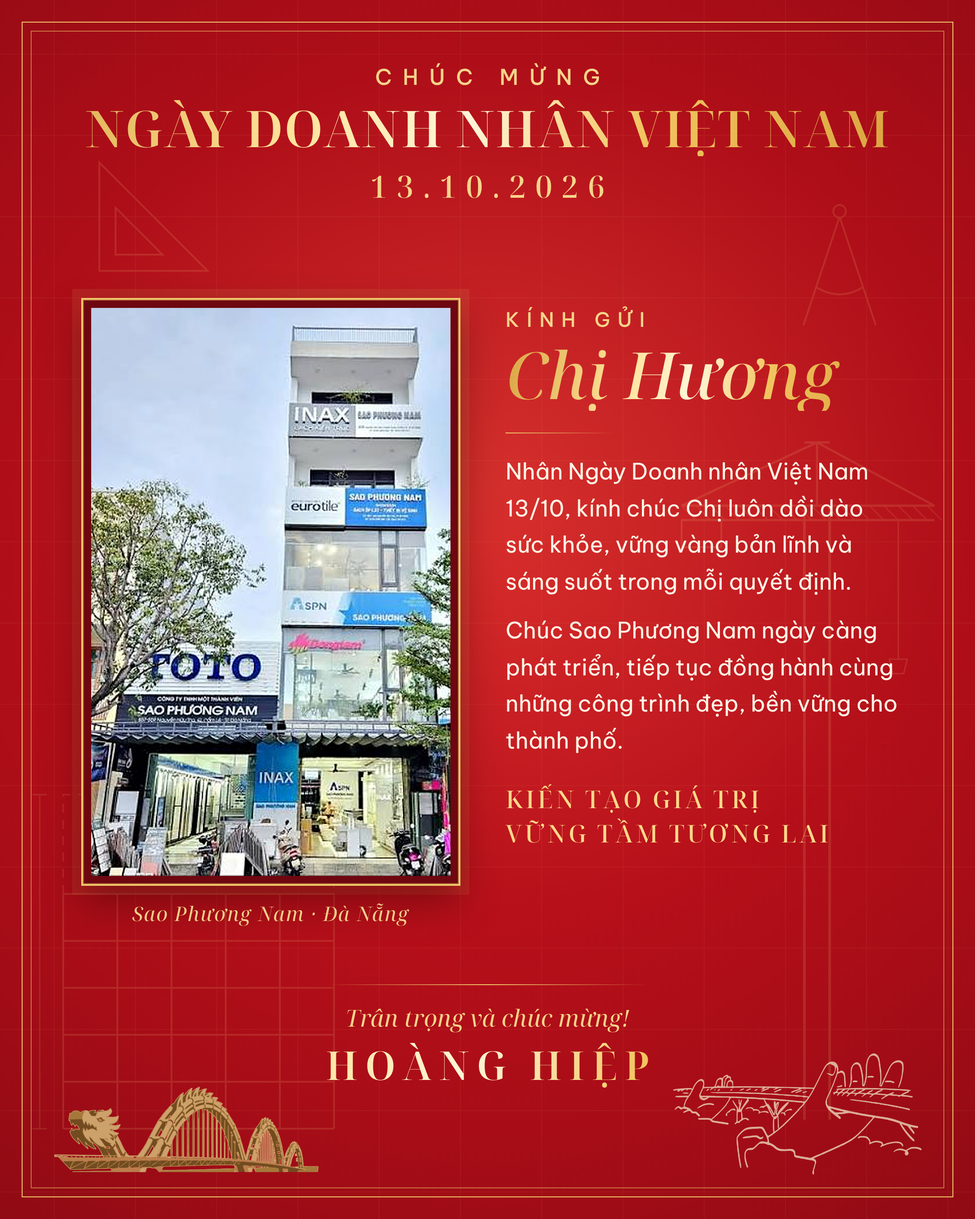
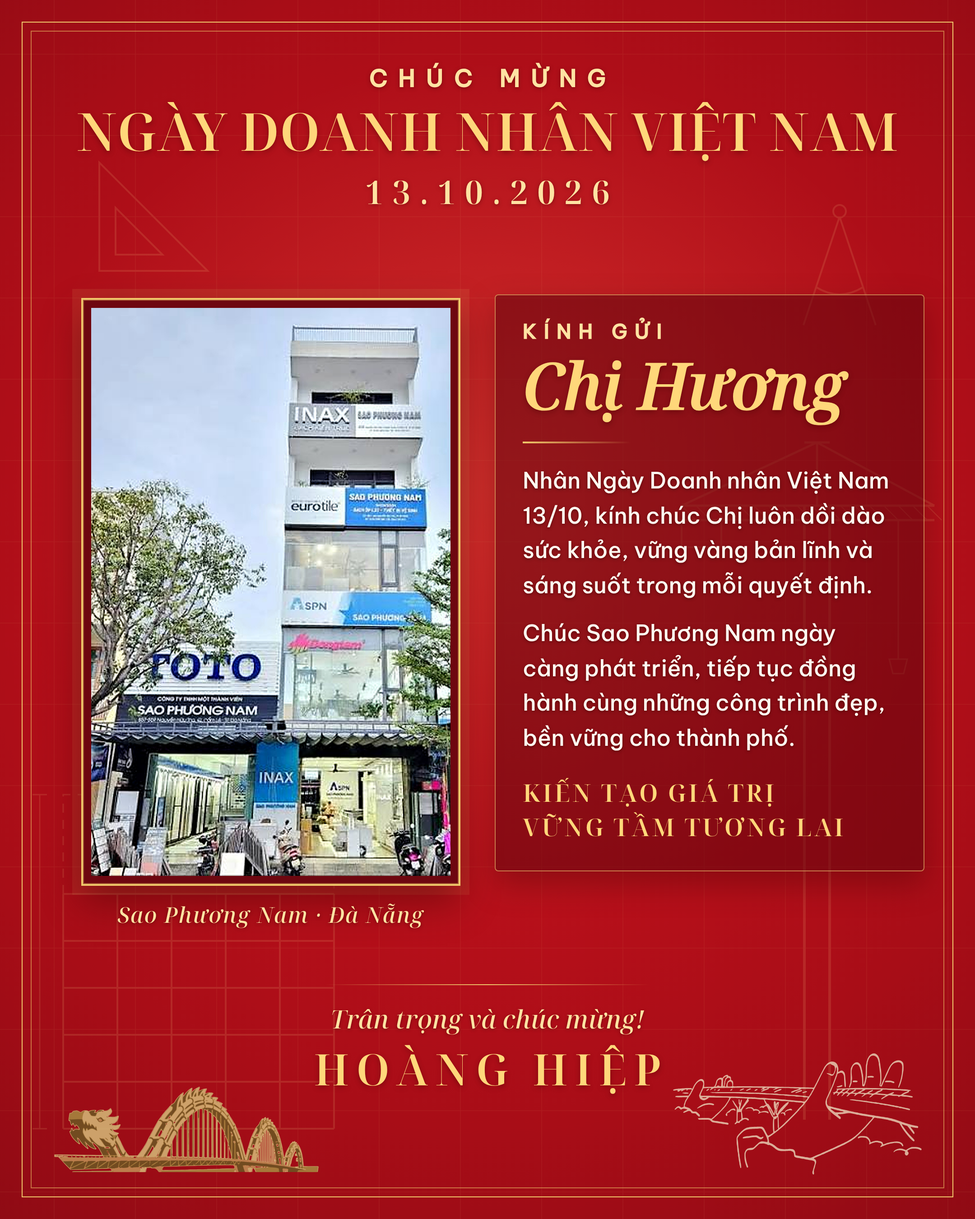
Thiệp chị Hương: chữ rõ hơn – vàng đặc, đậm hơn, khung nền cho lời chúc
Claude-Session: https://claude.ai/code/session_01Noi56VZ885EaUZ236ZNbAP

diff --git a/thiep/thiep-chi-huong.html b/thiep/thiep-chi-huong.html
@@ -27,6 +27,19 @@ body{width:1080px;height:1350px;overflow:hidden;background:#8e0c14}
 .sig .l{width:360px;height:1px;background:linear-gradient(90deg,rgba(240,200,106,0),#f0c86a,rgba(240,200,106,0));margin:0 auto 18px}
 .sig .t{font-family:'Noto Serif Display',serif;font-style:italic;font-size:26px;color:#f6d48a}
 .sig .n{font-family:'Noto Serif Display',serif;font-weight:600;font-size:44px;letter-spacing:8px;padding-left:8px;margin-top:4px}
+
+.gold{background:none!important;-webkit-background-clip:border-box!important;background-clip:border-box!important;color:#ffd77a!important;text-shadow:0 2px 6px rgba(70,0,0,.45)}
+.kick{font-size:26px!important;font-weight:600!important;color:#ffe3a3!important;text-shadow:0 1px 4px rgba(70,0,0,.5)}
+.title{font-size:58px!important;font-weight:600!important;letter-spacing:.5px!important}
+.date{font-size:36px!important;font-weight:600!important;color:#ffe3a3!important;text-shadow:0 1px 4px rgba(70,0,0,.5)}
+.R{left:548px!important;top:326px!important;width:476px!important;padding:26px 30px 30px!important;background:rgba(95,4,12,.55);border:1px solid rgba(255,215,122,.55);border-radius:4px;box-shadow:0 14px 34px rgba(60,0,0,.35)}
+.to{font-size:22px!important;font-weight:600!important;color:#ffe3a3!important}
+.name{font-size:70px!important;font-weight:600!important;font-style:italic}
+.wish{font-size:25px!important;font-weight:500!important;line-height:1.55!important;color:#fffaf0!important;text-shadow:0 1px 3px rgba(50,0,0,.55)}
+.motto{font-size:27px!important;font-weight:600!important;color:#ffd77a!important;letter-spacing:2.5px!important;margin-top:22px!important}
+.cap{font-size:24px!important;font-weight:500;color:#ffe3a3!important;text-shadow:0 1px 3px rgba(60,0,0,.5)}
+.sig .t{font-size:28px!important;font-weight:500;color:#ffe3a3!important;text-shadow:0 1px 3px rgba(60,0,0,.5)}
+.sig .n{font-size:48px!important;font-weight:700!important}
 </style></head><body><div class="card">
 <svg style="position:absolute;left:0;top:0" width="1080" height="1350" viewBox="0 0 1080 1350"><g opacity=".13" fill="none"><path d="M891 1240 V560 M919 1240 V560" stroke="#ffd98a" stroke-width="3"/><path d="" stroke="#ffd98a" stroke-width="1.4"/><path d="M755 560 H1035 M755 576 H1035 M905 490 L755 560 M905 490 L1035 560 M891 490 H919 M905 490 V560" fill="none" stroke="#ffd98a" stroke-width="2.4"/><path d="M755 560 L771 576 M771 560 L787 576 M787 560 L803 576 M803 560 L819 576 M819 560 L835 576 M835 560 L851 576 M851 560 L867 576 M867 560 L883 576 M883 560 L899 576 M899 560 L915 576 M915 560 L931 576 M931 560 L947 576 M947 560 L963 576 M963 560 L979 576 M979 560 L995 576 M995 560 L1011 576 M1011 560 L1027 576 M1027 560 L1043 576" stroke="#ffd98a" stroke-width="1.2"/><rect x="755" y="576" width="44" height="30" fill="none" stroke="#ffd98a" stroke-width="2"/><path d="M995 576 V730" stroke="#ffd98a" stroke-width="1.6"/><path d="M985 730 h20 l-4 16 h-12 z" fill="none" stroke="#ffd98a" stroke-width="1.6"/><path d="M70 1250 H370 M70 1198 H370 M70 1146 H370 M70 1094 H370 M70 1042 H370 M70 990 H370 M70 1250 V990 M130 1250 V990 M190 1250 V990 M250 1250 V990 M310 1250 V990 M370 1250 V990" stroke="#ffd98a" stroke-width="2"/><path d="M70 990 V880 H370 V990" fill="none" stroke="#ffd98a" stroke-width="1.6" stroke-dasharray="10 8"/><path d="M44 1250 V880 M36 1250 h16 M36 880 h16" stroke="#ffd98a" stroke-width="1.4"/><path d="M0 60 H1080 M0 150 H1080 M0 240 H1080 M0 330 H1080 M0 420 H1080 M0 510 H1080 M0 600 H1080 M0 690 H1080 M0 780 H1080 M0 870 H1080 M0 960 H1080 M0 1050 H1080 M0 1140 H1080 M0 1230 H1080 M0 1320 H1080 M60 0 V1350 M150 0 V1350 M240 0 V1350 M330 0 V1350 M420 0 V1350 M510 0 V1350 M600 0 V1350 M690 0 V1350 M780 0 V1350 M870 0 V1350 M960 0 V1350 M1050 0 V1350" stroke="#ffd98a" stroke-width=".8" opacity=".5"/><g transform="translate(930 300)"><path d="M0 -60 L-40 60 M0 -60 L40 60 M-26 18 Q0 34 26 18" fill="none" stroke="#ffd98a" stroke-width="2"/><circle cx="0" cy="-66" r="7" fill="none" stroke="#ffd98a" stroke-width="2"/></g><path d="M110 300 L230 300 L110 180 Z M128 282 L180 282 L128 230 Z" fill="none" stroke="#ffd98a" stroke-width="2"/></g></svg>
 <div class="frame"></div><div class="frame2"></div>
